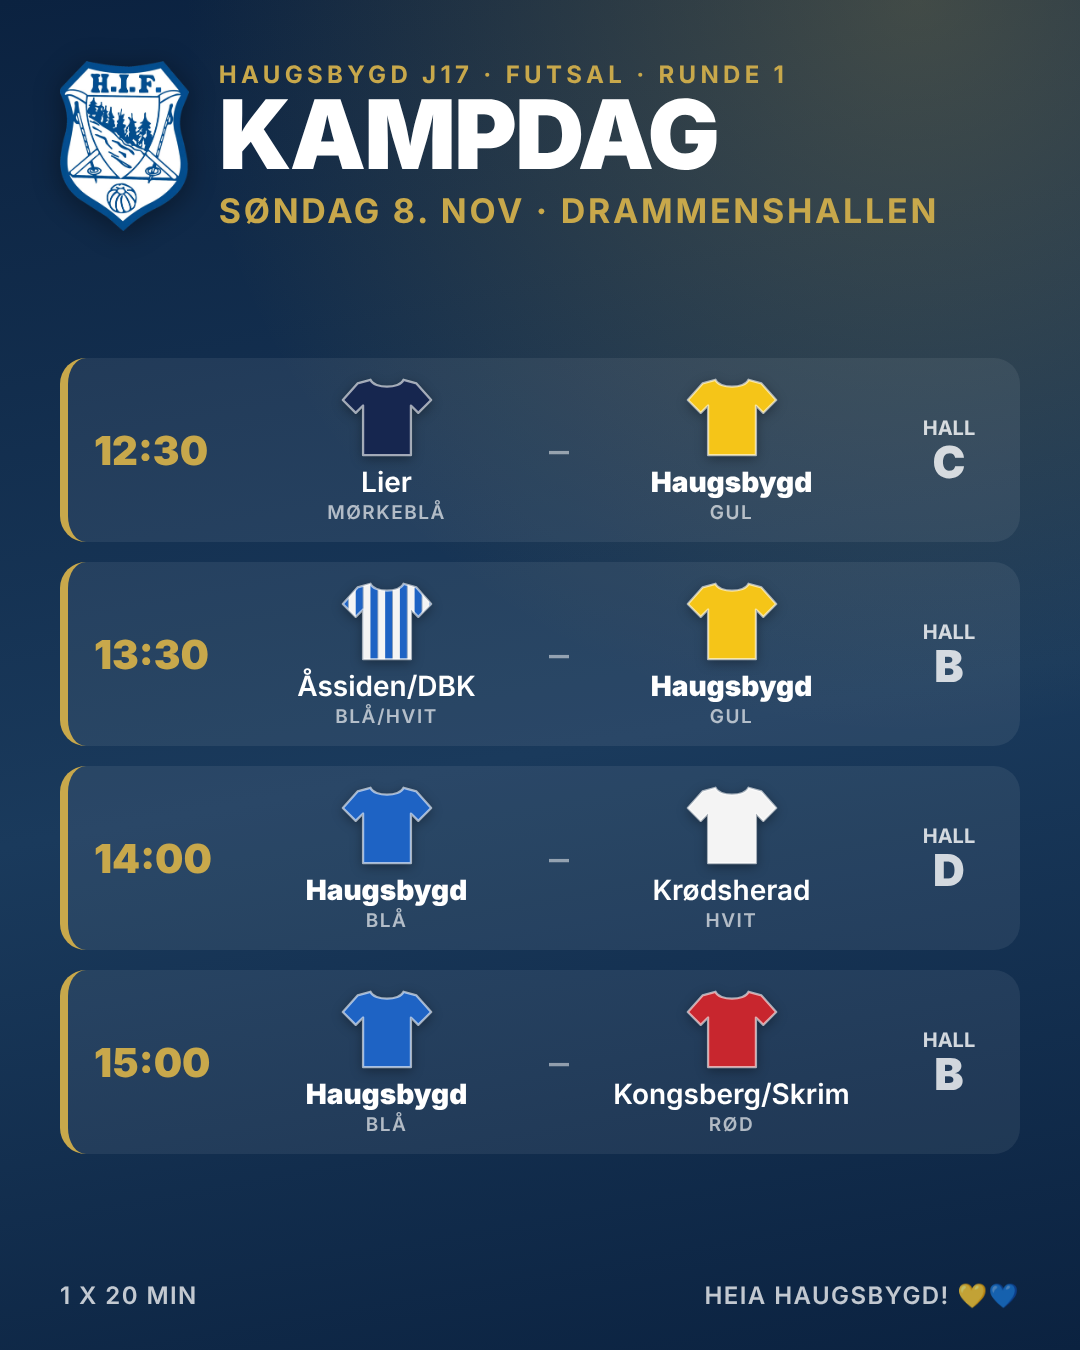
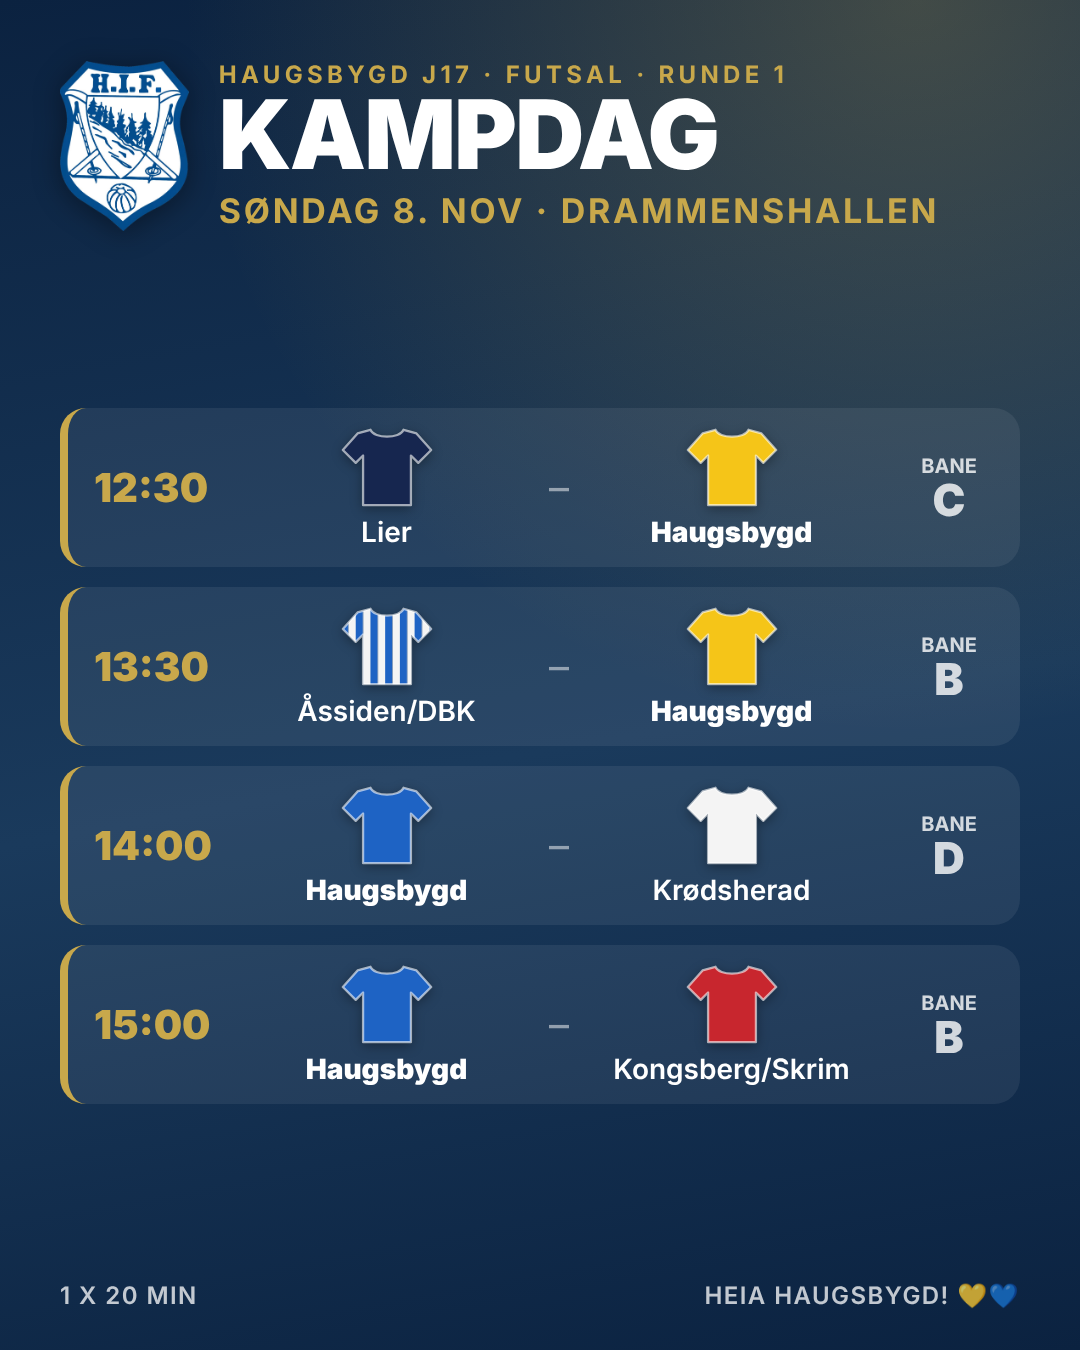
Futsal: insta-bilde bruker Bane og viser bare drakt
Claude-Session: https://claude.ai/code/session_01Nvhq4Q2RLYu4qK8aiup1MC

diff --git a/futsal/render.js b/futsal/render.js
@@ -283,10 +283,10 @@ function insta() {
     const vi = k.hjemme === data.lag;
     const [vf, hf] = vi ? [k.drakt.oss, k.drakt.mot] : [k.drakt.mot, k.drakt.oss];
     return `<div class="ik"><div class="itid">${k.tid}</div>
-<div class="ilag"><div class="side">${drakt(vf, i + 'a')}<div class="${vi ? 'us' : ''}">${esc(k.hjemme)}</div><small>${esc(vf === 'blåhvit' ? 'blå/hvit' : vf)}</small></div>
+<div class="ilag"><div class="side">${drakt(vf, i + 'a')}<div class="${vi ? 'us' : ''}">${esc(k.hjemme)}</div></div>
 <div class="vs">–</div>
-<div class="side">${drakt(hf, i + 'b')}<div class="${vi ? '' : 'us'}">${esc(k.borte)}</div><small>${esc(hf === 'blåhvit' ? 'blå/hvit' : hf)}</small></div></div>
-<div class="ihall">Hall<br><b>${esc(k.bane.replace(sted + ' ', ''))}</b></div></div>`;
+<div class="side">${drakt(hf, i + 'b')}<div class="${vi ? '' : 'us'}">${esc(k.borte)}</div></div></div>
+<div class="ihall">Bane<br><b>${esc(k.bane.replace(sted + ' ', ''))}</b></div></div>`;
   }).join('');
   return `<!doctype html><html><head><meta charset="utf-8"><style>${css}
 body{height:1350px;overflow:hidden}
